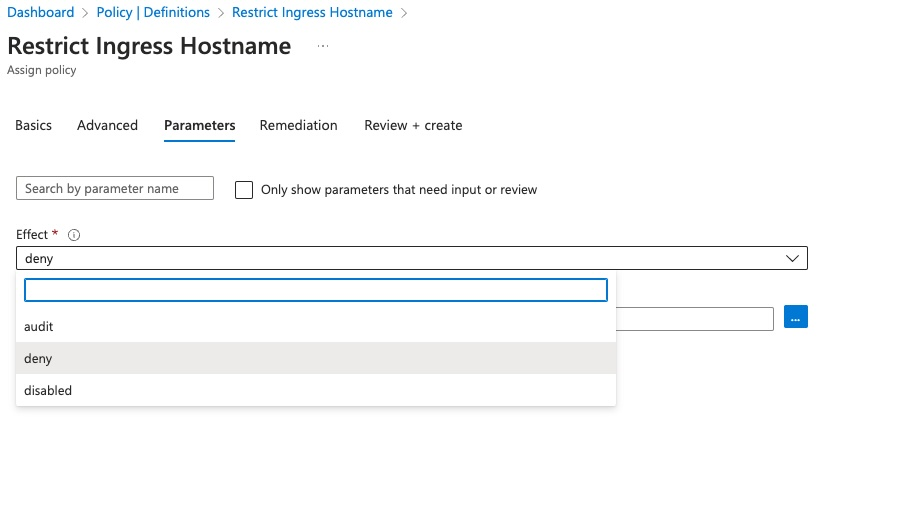
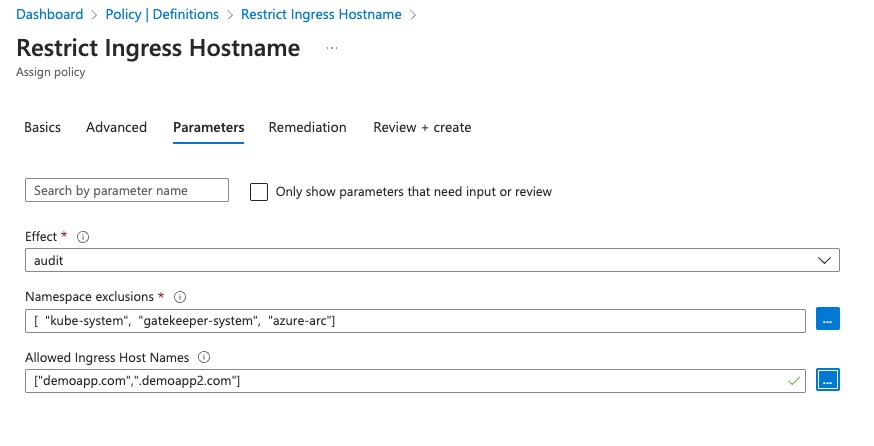
added hostname param

diff --git a/aks-custom-policy/README.md b/aks-custom-policy/README.md
@@ -2,7 +2,7 @@
 
 ## Introduction
 
-In this walkthrough we'll use the [Gatekeeper](https://open-policy-agent.github.io/gatekeeper/website/) project and [AKS Policy](https://learn.microsoft.com/en-us/azure/governance/policy/concepts/policy-for-kubernetes) to create a policy that resticts the host name on a Kubernetes Ingress.
+In this walkthrough we'll use the [Gatekeeper](https://open-policy-agent.github.io/gatekeeper/website/) project and [AKS Policy](https://learn.microsoft.com/en-us/azure/governance/policy/concepts/policy-for-kubernetes) to create a policy that resticts the host name on a Kubernetes Ingress. The host names used for validation will be provided via parameters on the Azure Policy assignment.
 
 ## Cluster Setup
 
@@ -28,7 +28,7 @@ az aks get-credentials -g $RG -n $CLUSTER_NAME
 
 While the cluster creates we can work on the contraint template. You can read more about constraint templates here, but they are the CRD that provides Gatekeeper the policy details, including the evaluation which is written in [rego](https://www.openpolicyagent.org/docs/latest/policy-language/).
 
-In our example, we'll keep it simple and just restrict the ingress host name to a value ending in 'demoapp.com'. In a future update I may make this host name value a parameterized option.
+In our example, we'll keep it simple and just restrict the ingress host name to one of the values in an 'allowedhosts' array parameter. The allowedhosts parameter will be set via the constraint definition, or via the policy definition when we create the Azure Policy.
 
 Create a new file named IngressHostnameConstraintTemplate.yaml with the following contents. Or use the doc in [manifests/IngressHostnameConstraintTemplate.yaml](./manifests/IngressHostnameConstraintTemplate.yaml)
 
@@ -44,6 +44,14 @@ spec:
     spec:
       names:
         kind: K8sRestrictIngressHostname # this must be the same name as the name on metadata.name (line 4)            
+      validation:
+        # Schema for the `parameters` field
+        openAPIV3Schema:
+          properties:
+            allowedhosts:
+              type: array
+              items:
+                type: string        
   targets:
     - target: admission.k8s.gatekeeper.sh
       rego: |
@@ -51,8 +59,12 @@ spec:
 
         violation[{"msg": msg}] {
           host := input.review.object.spec.rules[_].host
-          not endswith(host, ".demoapp.com")
+          not input_allowed_hosts(host)
           msg := sprintf("invalid ingress host %q", [host])
+        }
+
+        input_allowed_hosts(field) {
+          endswith(field, input.parameters.allowedhosts[_])
         }
 ```
 
@@ -64,7 +76,7 @@ To create a policy in Azure that uses the above constraint template, we need to 
 cat ./manifests/IngressHostnameConstraintTemplate.yaml|base64
 
 # Sample Output
[2 lines of base64/hex data omitted]
 ```
 
 Create a new file called 'policy-definition.json', and paste the following contenxt, updating the base64 encoded value with your output from above.
@@ -105,7 +117,15 @@ Create a new file called 'policy-definition.json', and paste the following conte
                     "gatekeeper-system",
                     "azure-arc"
                 ]
-            }
+            },
+            "allowedhosts": {
+                "type": "Array",
+                "metadata": {
+                  "displayName": "Allowed Ingress Host Names",
+                  "description": "List of allowed host names that can be used on Ingress objects."
+                },
+                "defaultValue": []
+              }
         },
         "policyRule": {
             "if": {
@@ -121,10 +141,11 @@ Create a new file called 'policy-definition.json', and paste the following conte
                 "details": {
                     "templateInfo": {
                         "sourceType": "Base64Encoded",
[2 lines of base64/hex data omitted]
                     },
+                    "excludedNamespaces": "[parameters('excludedNamespaces')]",
                     "values": {
-                        "excludedNamespaces": "[parameters('excludedNamespaces')]"
+                        "allowedhosts": "[parameters('allowedhosts')]"
                     },
                     "apiGroups": [
                         "extensions", 
